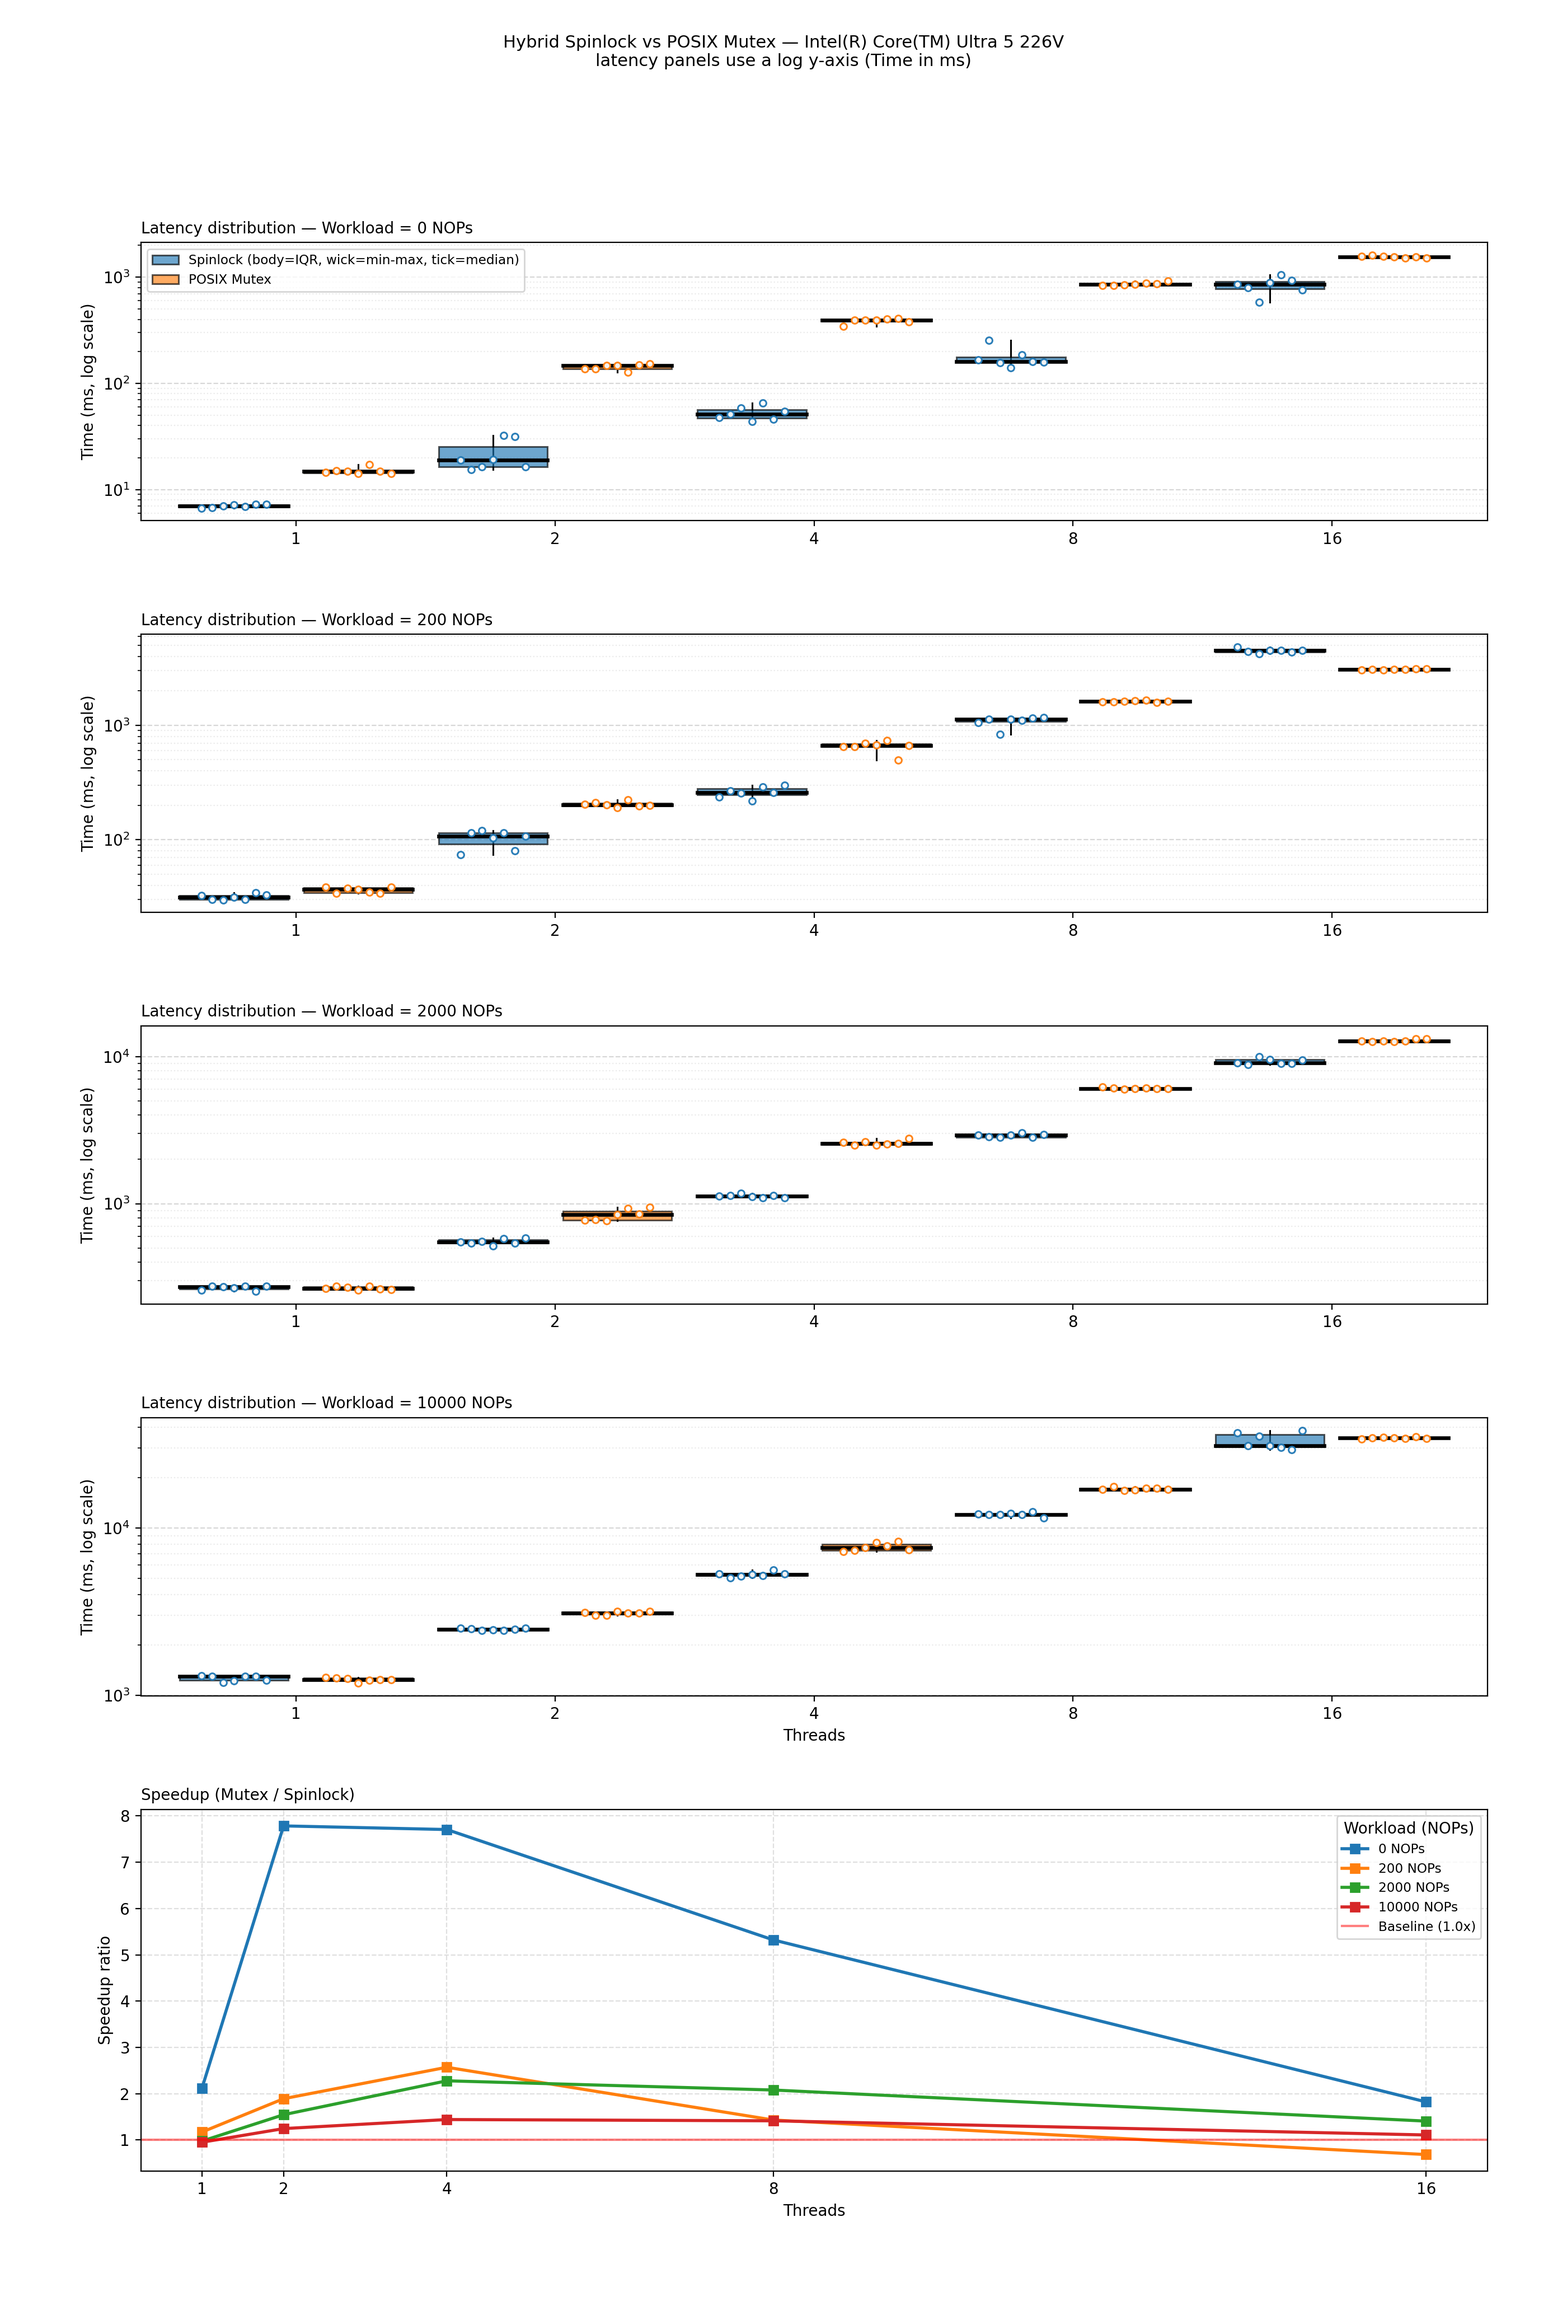
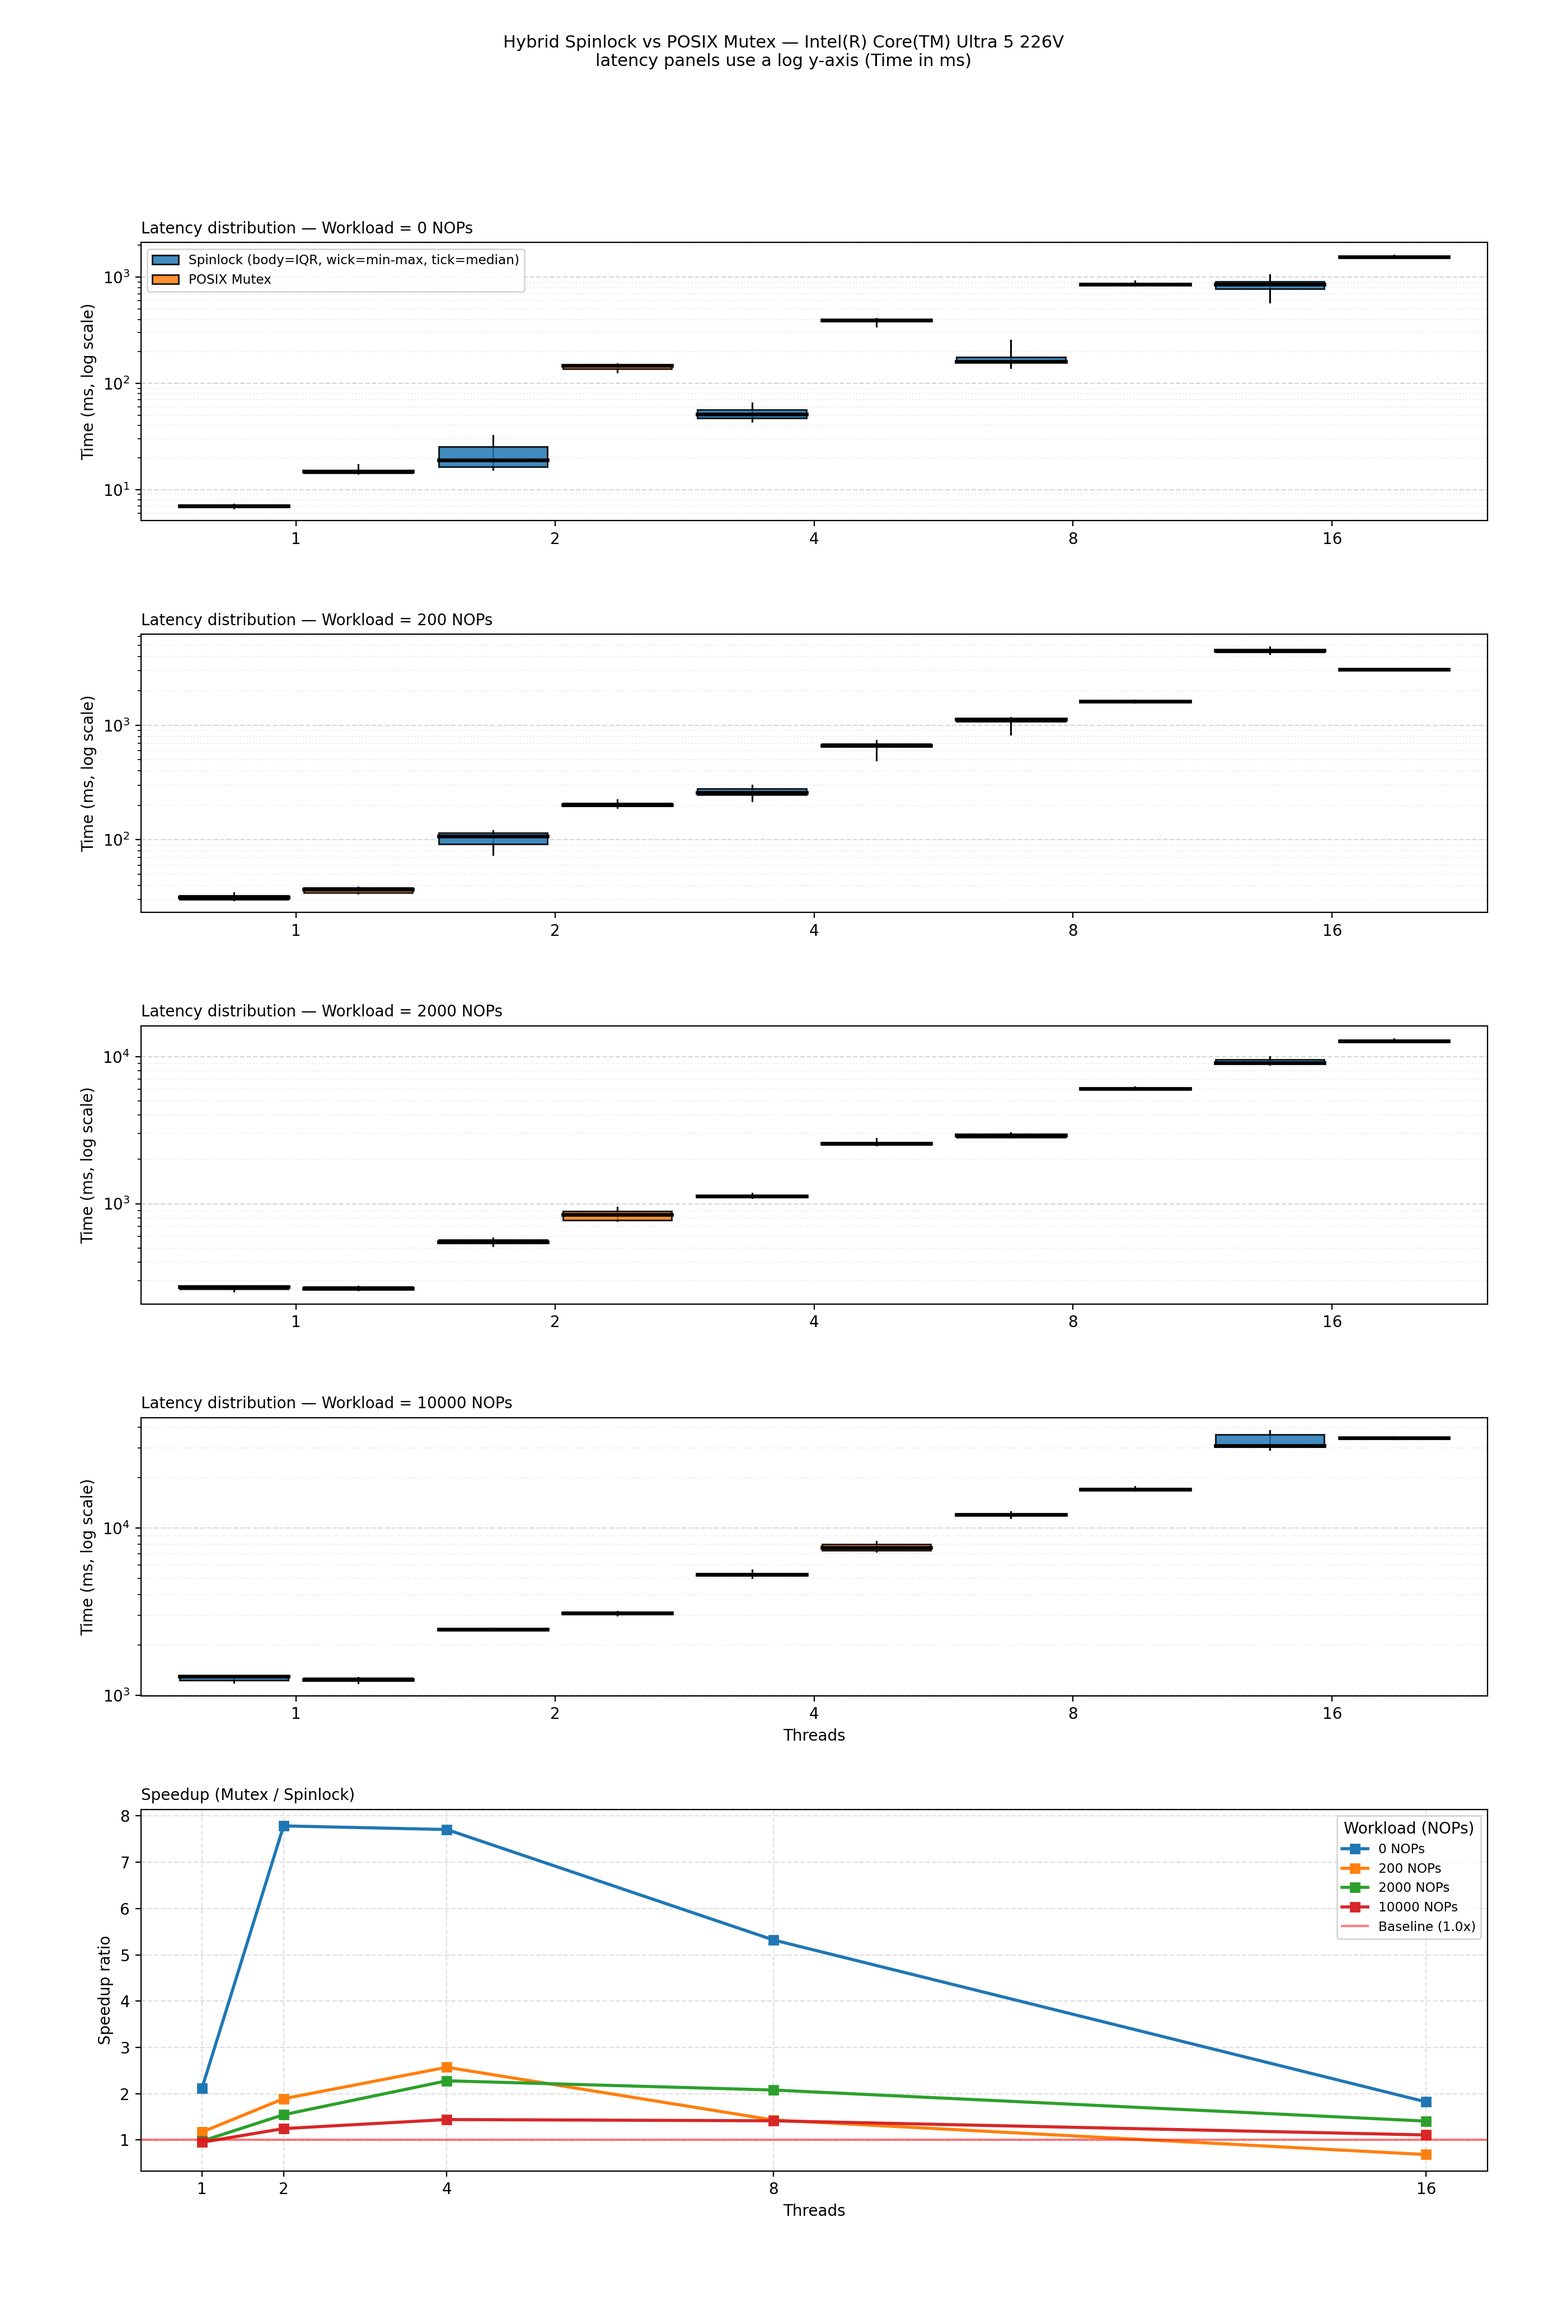
refactor: drop per-measurement dot overlay on candles

diff --git a/test_bench.py b/test_bench.py
@@ -156,11 +156,7 @@ def print_report(cpu_model: str, num_cpus: int, l1_cache: str, report_data: list
 
 def _draw_candle(ax: plt.Axes, x: float, arr: np.ndarray, width: float,
                  color: str, *, label: str | None = None) -> None:
-    """OHLC-style candle: body = IQR (Q1..Q3), wick = min..max, tick = median.
-
-    Individual measurements are overlaid as evenly-spaced points so the
-    full distribution is visible even when IQR collapses on log scale.
-    """
+    """OHLC-style candle: body = IQR (Q1..Q3), wick = min..max, tick = median."""
     if arr.size == 0:
         return
     q1 = float(np.percentile(arr, 25))
@@ -173,19 +169,11 @@ def _draw_candle(ax: plt.Axes, x: float, arr: np.ndarray, width: float,
     body_h = max(q3 - q1, (hi - lo) * 1e-3, 1e-9)
     ax.add_patch(plt.Rectangle(
         (x - width / 2, q1), width, body_h,
-        facecolor=color, edgecolor="black", lw=1.1, alpha=0.65,
+        facecolor=color, edgecolor="black", lw=1.1, alpha=0.85,
         zorder=3, label=label,
     ))
     ax.plot([x - width / 2, x + width / 2], [med, med],
             color="black", lw=2.4, zorder=4)
-
-    n = arr.size
-    if n > 1:
-        offsets = np.linspace(-width * 0.30, width * 0.30, n)
-    else:
-        offsets = np.zeros(1)
-    ax.scatter(x + offsets, arr, s=18, facecolor="white",
-               edgecolor=color, linewidth=1.1, alpha=0.95, zorder=5)
 
 
 def plot_results(results_spin_raw: list[list[list[float]]],

diff --git a/README.md b/README.md
@@ -139,7 +139,6 @@ A Python-based automated runner (`test_bench.py`) sweeps thread counts × worklo
 - **Body** = IQR (Q1 – Q3) — the typical run-to-run range
 - **Wick** = min – max — the noise envelope (how far an outlier can drag a run)
 - **Tick across the body** = median (the headline number)
-- **White dots inside each candle** = the 7 individual measurements (spread visible even when IQR is tiny on the log axis)
 - **Blue** = custom spinlock, **orange** = POSIX mutex (paired side-by-side at each thread count)
 
 The bottom panel shows the corresponding speedup (mutex / spin) as a line plot per workload.
@@ -159,7 +158,7 @@ Workloads target modern x86 CPUs: `0` (lock acquire/release alone), `200` (very 
 | **10,000** (long CS) | 8 | 12,048.50 | 17,034.20 | **1.41x** |
 | **10,000** (long CS) | 16 (oversub.) | 31,038.19 | 34,382.52 | **1.11x** |
 
-> **Reading the matrix.** The spinlock dominates from low to medium contention up to ~2 ms critical sections — at 4 threads with no CS work it is **7.7x faster** than `pthread_mutex`. Once the system is **over-subscribed** (more threads than physical cores) the bounded `nanosleep` yield can no longer keep spinning threads from starving the lock holder; with a short CS mutex clearly wins (0.68x), while at long CS the two stay within 11% of each other. Single-thread numbers are essentially identical across all workloads, as expected. The white dots inside each candle in `bench_result.png` are the **7 individual measurements**, so wide spread (e.g. spin at 16 threads) is visible at a glance even when IQR collapses on the log axis — that is exactly where you should reach for the kernel-mediated lock.
+> **Reading the matrix.** The spinlock dominates from low to medium contention up to ~2 ms critical sections — at 4 threads with no CS work it is **7.7x faster** than `pthread_mutex`. Once the system is **over-subscribed** (more threads than physical cores) the bounded `nanosleep` yield can no longer keep spinning threads from starving the lock holder; with a short CS mutex clearly wins (0.68x), while at long CS the two stay within 11% of each other. Single-thread numbers are essentially identical across all workloads, as expected. The wick length in `bench_result.png` (and the log y-axis) makes the variance jump at over-subscription visible — that is exactly where you should reach for the kernel-mediated lock.
 
 The full raw measurement table (280 rows: 4 workloads × 5 thread counts × 2 locks × 7 runs) is shipped as [`bench_results.csv`](bench_results.csv) for downstream analysis.
 
